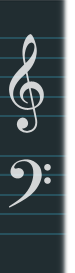
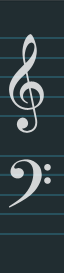
Vertical line instead of fade dividing song

diff --git a/keysPlay/keysPlay/Classes/KeysMath.m b/keysPlay/keysPlay/Classes/KeysMath.m
@@ -404,7 +404,7 @@
 
 #pragma mark - Drawing
 
-- (void)drawKeyboardInFrame:(UIImageView *)frameView fromKeyMin:(int)keyMin withNumberOfKeys:(int)numberOfKeys andNumberOfWhiteKeys:(int)numberOfWhiteKeys invertColors:(BOOL)invertColors colorActive:(BOOL)colorActive drawHighlights:(BOOL)drawHighlights
+- (void)drawKeyboardInFrame:(UIImageView *)frameView fromKeyMin:(int)keyMin withNumberOfKeys:(int)numberOfKeys andNumberOfWhiteKeys:(int)numberOfWhiteKeys invertColors:(BOOL)invertColors colorActive:(BOOL)colorActive
 {
     //int numberOfKeys = KEYS_DISPLAYED_NOTES_COUNT;
     
@@ -474,7 +474,7 @@
                     
             }
             
-            if(drawHighlights){
+            /*if(drawHighlights){
                 GLubyte * noteColor = g_keyColors[key%KEYS_OCTAVE_COUNT];
                 
                 double colorFrameWidth = 12.0;
@@ -484,7 +484,7 @@
                 CGContextSetFillColorWithColor(colorWhiteKeyContext, [UIColor colorWithRed:noteColor[0]/255.0 green:noteColor[1]/255.0 blue:noteColor[2]/255.0 alpha:70/255.0].CGColor);
                 
                 CGContextFillRect(colorWhiteKeyContext, colorFrame);
-            }
+            }*/
             
             w++;
             
@@ -495,7 +495,7 @@
             
             CGContextFillRect(blackKeyContext, keyFrame);
             
-            if(drawHighlights){
+            /*if(drawHighlights){
                 GLubyte * noteColor = g_keyColors[key%KEYS_OCTAVE_COUNT];
                 
                 double colorFrameWidth = 10.0;
@@ -505,7 +505,7 @@
                 CGContextSetFillColorWithColor(colorBlackKeyContext, [UIColor colorWithRed:noteColor[0]/255.0 green:noteColor[1]/255.0 blue:noteColor[2]/255.0 alpha:200/255.0].CGColor);
                 
                 CGContextFillRect(colorBlackKeyContext, colorFrame);
-            }
+            }*/
             
         }
         

diff --git a/keysPlay/keysPlay/Classes/PlayViewController.m b/keysPlay/keysPlay/Classes/PlayViewController.m
@@ -1704,14 +1704,14 @@ extern UserController * g_userController;
 
 - (void)displayKeyboardRangeChanged
 {
-    [g_keysMath drawKeyboardInFrame:keyboardRange fromKeyMin:g_keysMath.songRangeKeyMin withNumberOfKeys:g_keysMath.songRangeKeySize andNumberOfWhiteKeys:g_keysMath.songRangeNumberOfWhiteKeys invertColors:TRUE colorActive:YES drawHighlights:NO];
+    [g_keysMath drawKeyboardInFrame:keyboardRange fromKeyMin:g_keysMath.songRangeKeyMin withNumberOfKeys:g_keysMath.songRangeKeySize andNumberOfWhiteKeys:g_keysMath.songRangeNumberOfWhiteKeys invertColors:TRUE colorActive:YES];
 }
 
 - (void)drawKeyboardGridFromMin:(int)keyMin
 {
     // This is slightly hacked at the moment, but other methods calculate the range with different rounding and this approximates the match better than ceil or round
     
-    [g_keysMath drawKeyboardInFrame:keyboardGrid fromKeyMin:keyMin withNumberOfKeys:ceil(0.99*[g_keysMath cameraScale]*KEYS_DISPLAYED_NOTES_COUNT) andNumberOfWhiteKeys:ceil(0.99*[g_keysMath cameraScale]*KEYS_WHITE_KEY_DISPLAY_COUNT) invertColors:FALSE colorActive:NO drawHighlights:YES];
+    [g_keysMath drawKeyboardInFrame:keyboardGrid fromKeyMin:keyMin withNumberOfKeys:ceil(0.99*[g_keysMath cameraScale]*KEYS_DISPLAYED_NOTES_COUNT) andNumberOfWhiteKeys:ceil(0.99*[g_keysMath cameraScale]*KEYS_WHITE_KEY_DISPLAY_COUNT) invertColors:FALSE colorActive:NO];
 }
 
 - (void)lightKeyOnPlay:(KeyPosition)key isIncorrect:(BOOL)incorrect isMissed:(BOOL)isMissed

diff --git a/keysPlay/keysPlay/SongES1Renderer.m b/keysPlay/keysPlay/SongES1Renderer.m
@@ -228,9 +228,8 @@
     for (LineModel * lineModel in m_lineModels )
     {
         CGPoint center = [lineModel getCenter];
-        CGSize size = [lineModel getSize];
         
-        if(m_horizontalOffset-m_currentPosition+center.x-size.width/2.8 > GL_SEEK_LINE_X){
+        if(m_horizontalOffset-m_currentPosition+center.x > GL_SEEK_LINE_X){
             [lineModel drawAt:CGPointMake(center.x,center.y)];
         }
     }
@@ -249,8 +248,12 @@
     // Draw the background overlay that doesn't move
     //
     if(!m_isVertical){
+        
         glTranslatef( -(m_horizontalOffset - m_currentPosition), 0.0f, 0.0f);
-        [m_backgroundTexture drawAt:CGPointMake(75/2.0, 273/2.0)];
+        
+        [m_backgroundTexture drawAt:CGPointMake((GL_SEEK_LINE_X-1)/2.0, 273/2.0)];
+        
+        [m_seekLineModel draw];
     }
     
 	// finish stuff

diff --git a/keysPlay/keysPlay/SongDisplayController.m b/keysPlay/keysPlay/SongDisplayController.m
@@ -570,7 +570,7 @@
     
     CGSize newSize;
     newSize.height = 273.0;
-    newSize.width = 75.0;
+    newSize.width = GL_SEEK_LINE_X-1;
     
     filePath = [[NSBundle mainBundle] pathForResource:@"NoteStaffOverlay" ofType:@"png"];
     normalImage = [[UIImage alloc] initWithContentsOfFile:filePath];
@@ -595,7 +595,17 @@
     CGSize size;
     CGPoint center;
     
-    m_renderer.m_seekLineModel = nil;
+    // Draw seek line
+    
+    size.width = 1.0;
+    size.height = GL_SCREEN_HEIGHT;
+
+    // Get the position of the black note as the center
+    center.x = GL_SEEK_LINE_X;
+    center.y = GL_SCREEN_HEIGHT/2.0;
+
+    m_renderer.m_seekLineModel = [[LineModel alloc] initWithCenter:center andSize:size andColor:g_whiteGrayColor];
+    
     m_renderer.m_seekLineStandaloneModel = nil;
     
     // Horizontal ledger lines

diff --git a/keysPlay/keysPlay/Classes/SettingsViewController.m b/keysPlay/keysPlay/Classes/SettingsViewController.m
@@ -190,7 +190,7 @@ unsigned char g_sensitivity[6];
 - (void)updateFirmwareVersion
 {
     // Update in settings
-    if(g_keysController.connected){
+    if(g_keysController.connected && g_keysController.isKeysDeviceConnected){
         
         NSString * currentVersion = [NSLocalizedString(@"version", NULL) stringByAppendingFormat:@" %u.%u", g_keysController.m_firmwareMajorVersion, g_keysController.m_firmwareMinorVersion];
         
@@ -335,7 +335,7 @@ unsigned char g_sensitivity[6];
 
 - (void)updateCalibrate
 {
-    if(g_keysController.connected){
+    if(g_keysController.connected && g_keysController.isKeysDeviceConnected){
         
         [_incButton setEnabled:YES];
         [_decButton setEnabled:YES];

diff --git a/keysPlay/keysPlay/Classes/KeysMath.h b/keysPlay/keysPlay/Classes/KeysMath.h
@@ -123,7 +123,7 @@ extern KeysController * g_keysController;
 - (BOOL)noteFacesUp:(KeyPosition)key;
 
 // Drawing
-- (void)drawKeyboardInFrame:(UIImageView *)frameView fromKeyMin:(int)keyMin withNumberOfKeys:(int)numberOfKeys andNumberOfWhiteKeys:(int)numberOfWhiteKeys invertColors:(BOOL)invertColors colorActive:(BOOL)colorActive drawHighlights:(BOOL)drawHighlights;
+- (void)drawKeyboardInFrame:(UIImageView *)frameView fromKeyMin:(int)keyMin withNumberOfKeys:(int)numberOfKeys andNumberOfWhiteKeys:(int)numberOfWhiteKeys invertColors:(BOOL)invertColors colorActive:(BOOL)colorActive;
 
 // Zoom and position keyboard, note range checks
 - (BOOL)allNotesOutOfRangeForFrame:(NSNoteFrame *)noteFrame;

diff --git a/keysPlay/keysPlay/Classes/keysPlayAppDelegate.m b/keysPlay/keysPlay/Classes/keysPlayAppDelegate.m
@@ -93,7 +93,7 @@ KeysMath * g_keysMath;
         secondRange.keyMin = 50;
         secondRange.keyMax = 55;
         
-        //[NSTimer scheduledTimerWithTimeInterval:3.0 target:g_keysController selector:@selector(debugSpoofConnected) userInfo:nil repeats:NO];
+        [NSTimer scheduledTimerWithTimeInterval:3.0 target:g_keysController selector:@selector(debugSpoofConnected) userInfo:nil repeats:NO];
         
         //[NSTimer scheduledTimerWithTimeInterval:4.0 target:g_keysController selector:@selector(debugSpoofRangeChange:) userInfo:[NSValue value:&newRange withObjCType:@encode(KeysRange)] repeats:NO];
         

diff --git a/keysPlay/keysPlay/Classes/TitleNavigationController.m b/keysPlay/keysPlay/Classes/TitleNavigationController.m
@@ -498,7 +498,7 @@ extern UserController * g_userController;
         [g_fileController getFileOrDownloadAsync:loggedInEntry.m_userProfile.m_imgFileId callbackObject:self callbackSelector:@selector(profilePicDownloaded:)];
     }
     
-    if(g_keysController.connected){
+    if(g_keysController.connected && g_keysController.isKeysDeviceConnected){
         [self promptKeysRegistration];
     }
     
